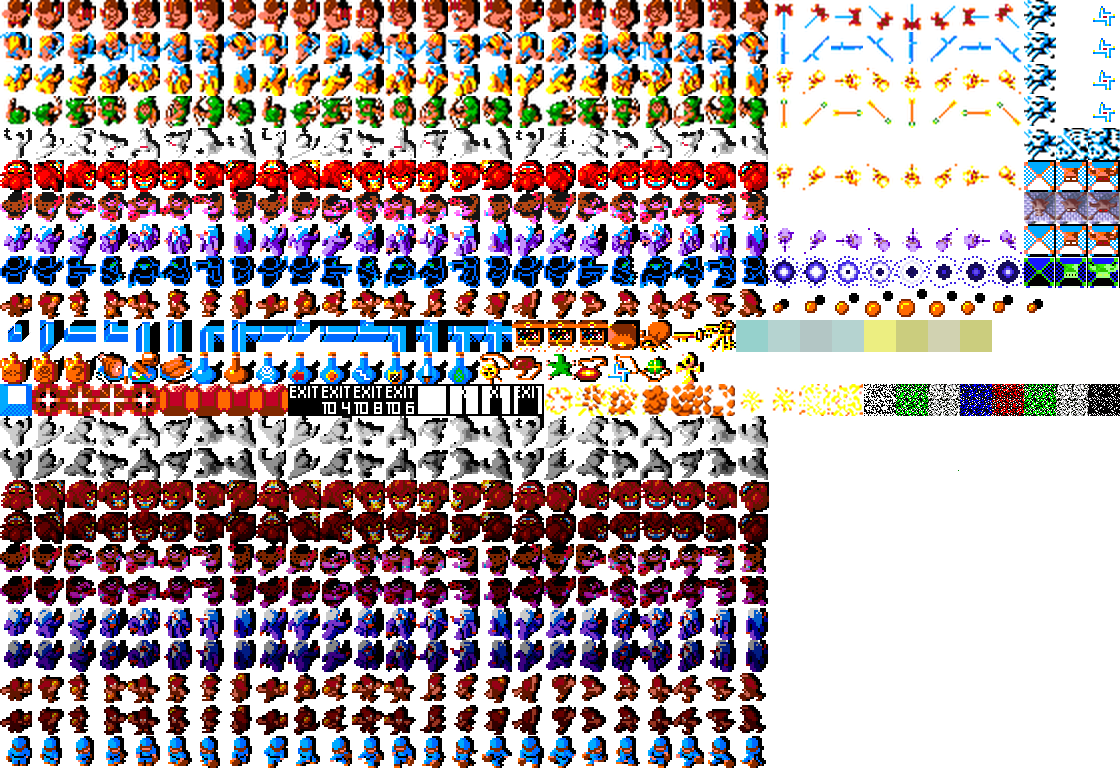
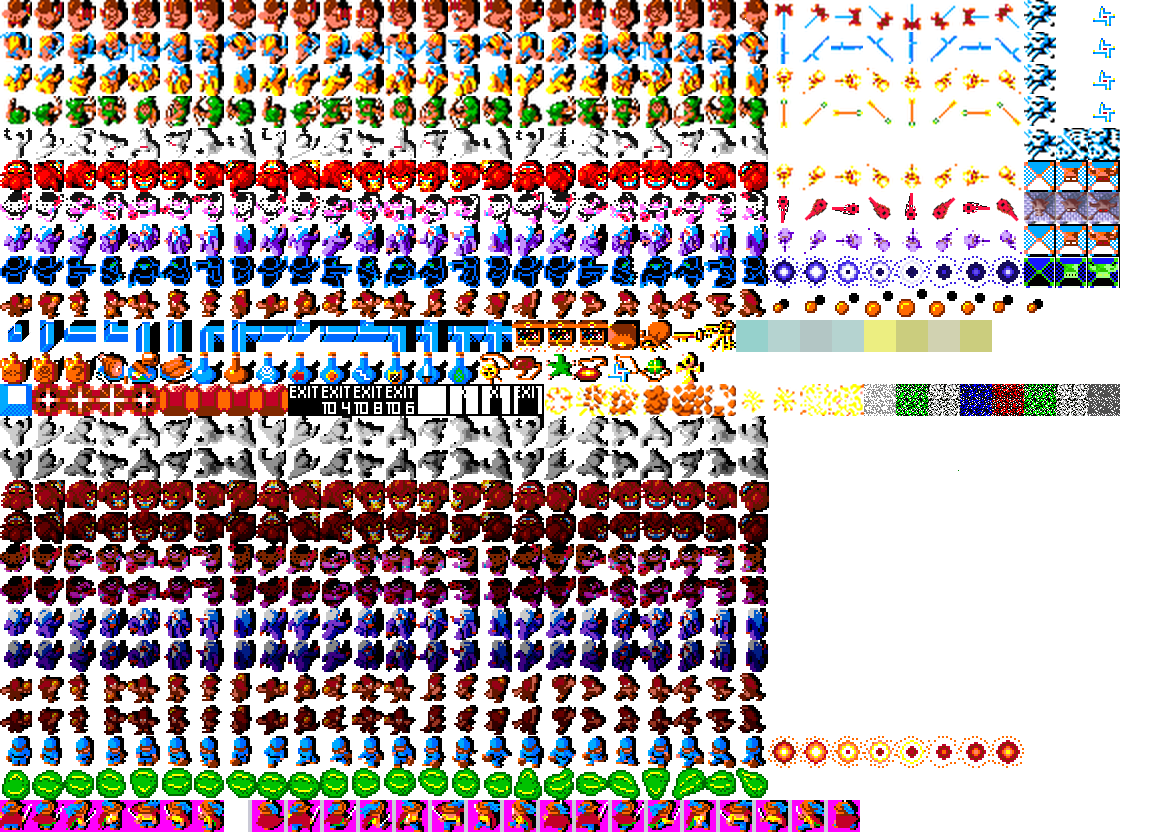
coding in g2 messages; add mugger and angry pickle [acid blob]

diff --git a/js/gauntlet.js b/js/gauntlet.js
@@ -105,6 +105,9 @@ Gauntlet = function() {
         WIZARD1: { sx: 0, sy: 20, frames: 3, fpf: FPS/10, score:  30, health:  10, speed: 110/FPS, damage:  60/FPS, selfharm: 0,      canbeshot: true,  canbehit: true,  invisibility: { on: 3*FPS, off: 6*FPS }, travelling: 0.5*FPS, thinking: 0.5*FPS, mlvl: [ 14, 14, 9, 3 ], generator: { glvl: [ 14, 14, 9, 3 ], health: 10, speed: 4.0*FPS, max: 20, score: 400, sx: 32, sy: 6 }, name: "sorcerer", weapon: null , hits: 'hithump',     nohlp: 44            },
         LOBBER1: { sx: 0, sy: 22, frames: 3, fpf: FPS/10, score:  10, health:  10, speed: 80/FPS, damage:  40/FPS, selfharm: 0,      canbeshot: true,  canbehit: true,  invisibility: false, travelling: 0.5*FPS, thinking: 0.5*FPS, mlvl: [ 15, 15, 10, 5 ], generator: { glvl: [ 15, 15, 10, 5 ], health: 10, speed: 3.5*FPS, max: 20, score: 100, sx: 32, sy: 6 }, name: "lobber", weapon: { speed: 180/FPS, reload: 1.9*FPS, damage: 10, sx: 24, sy: 9, fpf: FPS/10, monster: true, lobsht: true, foir: 'firelob' }   ,     nohlp: 45                 },
         THIEF: { sx: 0, sy: 23, frames: 3, fpf: FPS/10, score:  50, health:  10, speed: 200/FPS, damage:  5/FPS, selfharm: 0,      canbeshot: true,  canbehit: true,  invisibility: false, travelling: 0.5*FPS, thinking: 0.5*FPS, mlvl: [ 16, 16, 16, 16 ], generator: { glvl: [ 16, 16, 16, 16 ], health: 10, speed: 5.5*FPS, max: 20, score: 100, sx: 32, sy: 6, theif: 4 }, theif: true, name: "thief", weapon: null  ,     nohlp: 39               }
+        MUGGER: { sx: 0, sy: 23, frames: 3, fpf: FPS/10, score:  50, health:  10, speed: 200/FPS, damage:  5/FPS, selfharm: 0,      canbeshot: true,  canbehit: true,  invisibility: false, travelling: 0.5*FPS, thinking: 0.5*FPS, mlvl: [ 16, 16, 16, 16 ], generator: { glvl: [ 16, 16, 16, 16 ], health: 10, speed: 5.5*FPS, max: 20, score: 100, sx: 32, sy: 6, theif: 4 }, theif: true, name: "mugger", weapon: null  ,     nohlp: 62               }
+// g2 calls this the acid blob - it looks like an angry pickle...
+        PICKLE: { sx: 0, sy: 24, frames: 3, fpf: FPS/10, score:  50, health:  60, speed: 200/FPS, damage:  5/FPS, selfharm: 0,      canbeshot: true,  canbehit: true,  invisibility: false, travelling: 0.5*FPS, thinking: 0.5*FPS, mlvl: [ 16, 16, 16, 16 ], generator: { glvl: [ 16, 16, 16, 16 ], health: 10, speed: 5.5*FPS, max: 20, score: 100, sx: 32, sy: 6, theif: 4 }, theif: true, name: "thief", weapon: null  ,     nohlp: 63               }
       },
 // track a potential "richest" player path - (really have to track them all...)
 		THIEFTRX = [ ], THIEFTRY = [ ], thieftrack = 0, theif_ad = 0x400100, stolen_load = 0, NOSPAWNTHF = 4, nohlpkth = 39, nohlpinl = 40, thieftim = 0, thiefrnd = 0.35, thieftotim = 25, thiefexit = false,
@@ -183,7 +186,35 @@ Gauntlet = function() {
 									"Fooled you!  Some items may be fake",
 									"You now have the life ankh",
 									"Player loses # health<br>use magic to kill death",										// 60
-									"Avoid force fields, player loses # health"																// 61
+// g2 messages start here
+									"Avoid force fields<br>player loses # health"																// 61
+// mugger msg
+									"Kill mugger to recover stolen health",
+									"Avoid acid puddles<br>Player loses # health",
+									"Acid puddles move randomly"
+//									"Some walls can be shot and turn into good or bad",
+//									"Push movable walls",
+//									"Save keys to open doors",
+//									"Some treasure requires keys",
+//									"There can be more than one trap",
+//									"Death 'dies' after taking<br>up to 200 health",
+//									"Death disappears after<br>taking up to 200 health",
+//									"Shoot super sorceror<br>Player loses # health",
+// this is g2 msg
+//									"Have friends join in any time",
+//									"You are now IT",
+//									"Monsters follow player<br>who is IT",
+//									"Tag, you're IT",
+//									"Some walls move randomly",
+//									"Monsters may move differently",
+//									"",
+
+// these are in the g1 intro, but not coded in
+//									"Shoot ghosts",
+//									"Shoot ghost generators",
+//									"Some ghosts take more shots",
+//									"Fight grunts",
+//									"Your goal: find exit"
 
 									],
 		HELPANNC = [ ], // announcer help tie ins
